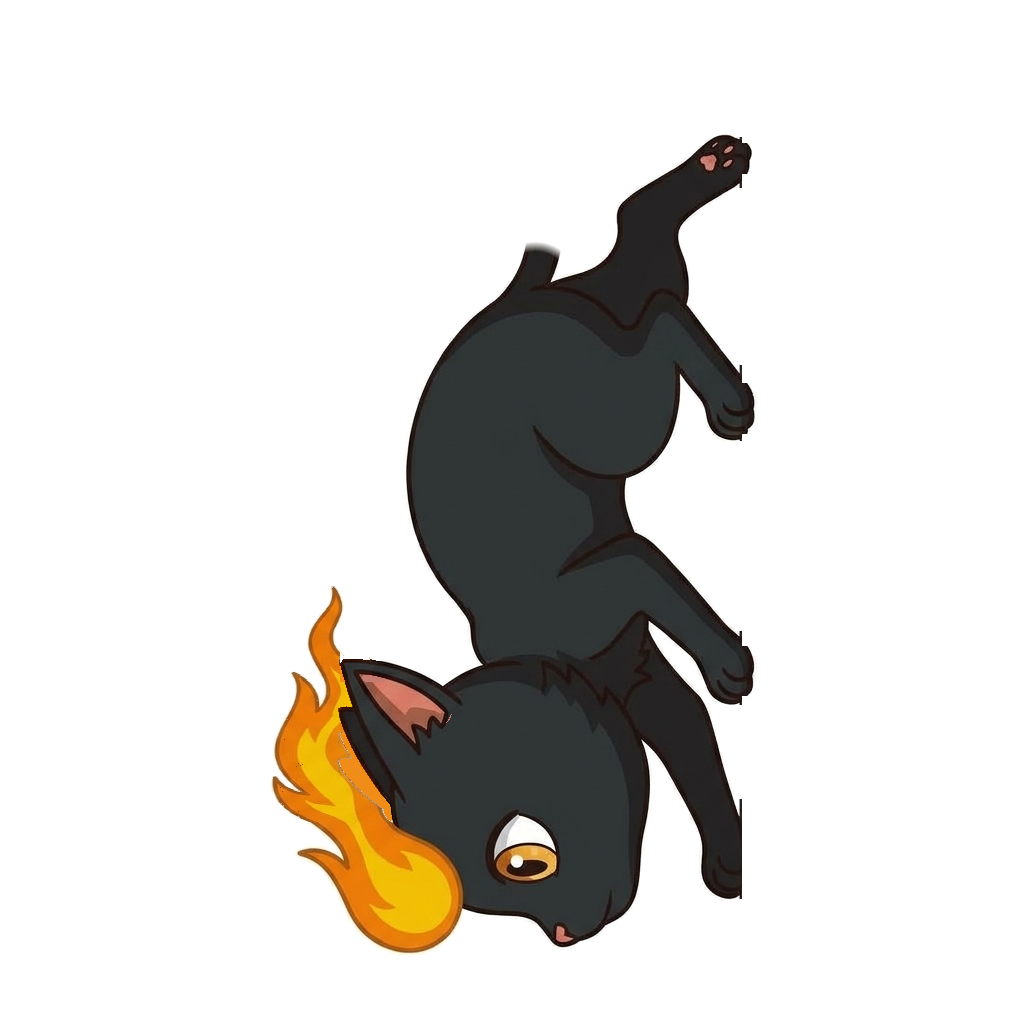
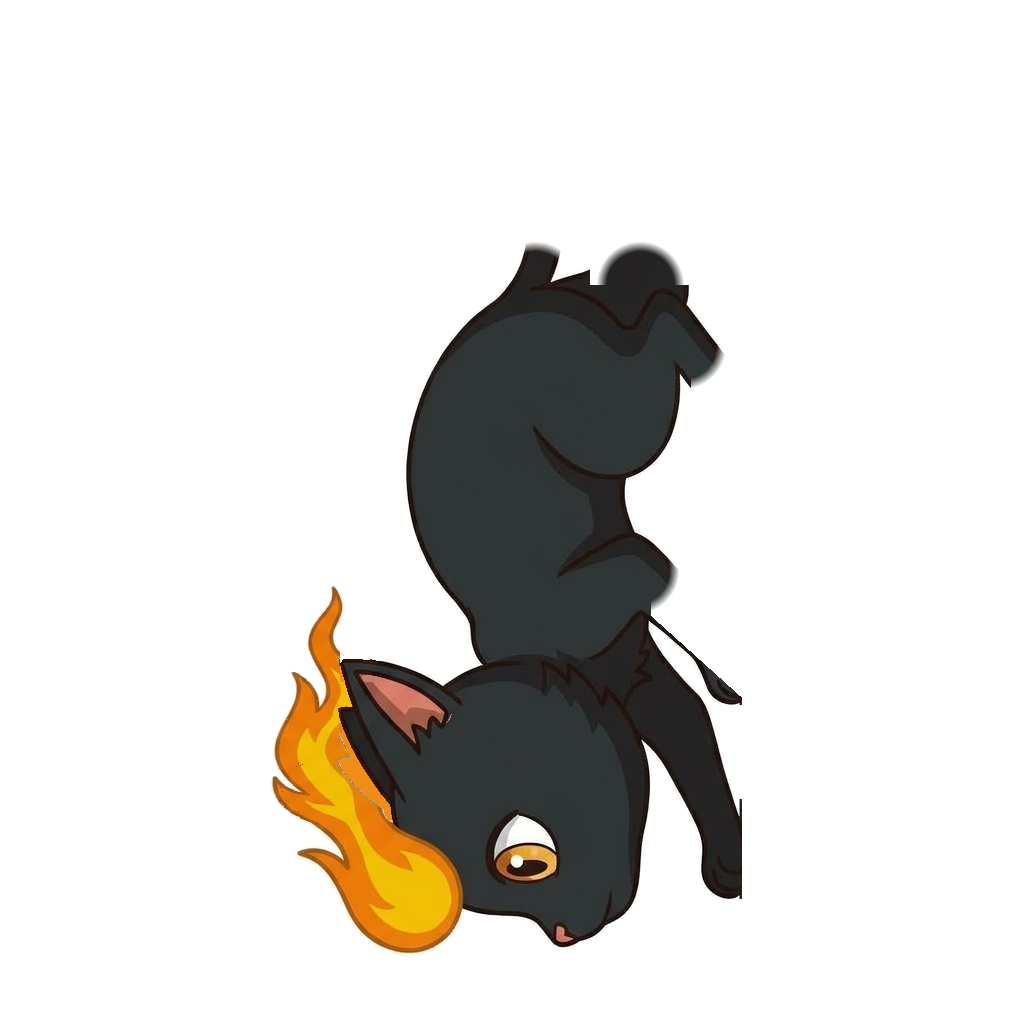
fix: animation bug when cat climbs down

diff --git a/src/renderer/avatar/parts-avatar.js b/src/renderer/avatar/parts-avatar.js
@@ -34,7 +34,8 @@
   // by the amplitude's sign.
   const GAIT = {
     climb: [7, { armL: 0.14, armR: -0.14, legL: -0.18, legR: 0.18 }],
-    descend: [6, { armL: 0.14, legL: -0.18, legR: 0.18 }], // backwards, with the climb drawing
+    descend: [6, { armL: 0.14, legL: -0.18, legR: 0.18 }], // the look-down drawing, walking
+    peek: [2, {}], // the same drawing, stopped: its legs settle and hold still
     cling: [2, { armL: 0.04, legL: 0.06, legR: -0.06 }],
     // Waves from the drawn pose in toward the face (the arm is drawn in front of it):
     // swinging outward would open a gap between the arm and the cheek it touches.
@@ -505,7 +506,8 @@
       if (gait) {
         const w = Math.sin(this.T * gait[0]);
         for (const limb of ['armL', 'armR', 'legL', 'legR']) {
-          rig[limb].rotation = w * (gait[1][limb] || 0) + (gait[2]?.[limb] || 0);
+          const target = w * (gait[1][limb] || 0) + (gait[2]?.[limb] || 0);
+          rig[limb].rotation += (target - rig[limb].rotation) * Math.min(1, dt * 14);
         }
       } else if (rig.quadruped) {
         // Diagonal gait: each back leg moves with the opposite front leg.

diff --git a/README.md b/README.md
@@ -74,7 +74,7 @@ Author: Anish Kuila
 
 - **Walking:** a side view whose four legs swing in a diagonal gait. It blinks as it walks, eases into its stride, and turns in steps through a front-standing and a three-quarter view (also when it turns round to walk the other way).
 - **Running:** a two-drawing gallop that alternates stretched and gathered, with the body rising in the stretch and dropping as it gathers, in step with the drawings.
-- **Climbing:** the two front paws and two back legs alternate as it climbs. Climbing down has its own head-first drawing with moving legs. It stops facing straight down with its flame trailing behind, coils up, then the two gallop drawings make the leap and the landing, and it strolls on.
+- **Climbing:** the two front paws and two back legs alternate as it climbs. Climbing down has its own head-first drawing, facing straight down with its flame trailing behind and its legs walking. It stops, coils up, then the two gallop drawings make the leap and the landing, and it strolls on.
 - **Other poses:** startled, dangling, falling, landing, waving, yawning, lying down, dozing, sleeping, the four-step wake-up, dizzy after a spin (four drawings), dizzy where it sits (three), shaking it off and the two dazed recoveries each have their own drawing.
 - **Turning:** going from facing you to side-on (and back) steps through a front-standing and a three-quarter drawing, all edits of one image so the body stays the same size.
 - **Moods without new drawings:** blush, an orange or red glow and angry brows are drawn in code. Drawings with open eyes (walking, climbing, clinging, climbing down, lying, running, dangling and the dazed recoveries) blink with a closed-eye overlay. The spiral eyes on the dizzy drawings are cut out and spun.
@@ -139,7 +139,7 @@ Counted directly from the codebase, not estimated:
 | Avatar types | 3 (parts, Live2D, placeholder) |
 | AI-generated source images for the fire cat | 33 (all in use) |
 | Pose drawings (per-animation rigs) | 25, plus 2 turn steps |
-| PNG layers in the fire cat | 108 |
+| PNG layers in the fire cat | 104 |
 | Cursor reactions | 6, plus click, click flurry, drag/throw and spin |
 | Task tools | 15 (`help`, `focus`, `focus_status`, `stop_focus`, `set_timer`, `remind_at`, `list_timers`, `cancel_timers`, `pick`, `flip_coin`, `roll_dice`, `get_time`, `open_url`, `web_search`, `behave`) |
 | IPC channels | 12 |
@@ -219,7 +219,7 @@ desktop-mate/
 │   ├── character.json            Which avatar to load, window and hitbox size, tuning, Live2D motion map
 │   ├── parts/
 │   │   ├── template/             The vector chibi exported as parts, with GUIDE.png (joint diagram)
-│   │   └── fire-cat/             The fire cat: parts.json, 108 PNG layers, source_*.jpg (not packaged)
+│   │   └── fire-cat/             The fire cat: parts.json, 104 PNG layers, source_*.jpg (not packaged)
 │   ├── models/                   Live2D models (git-ignored; see its README)
 │   └── vendor/                   Live2D Cubism core (git-ignored; not redistributable)
 ├── src/
